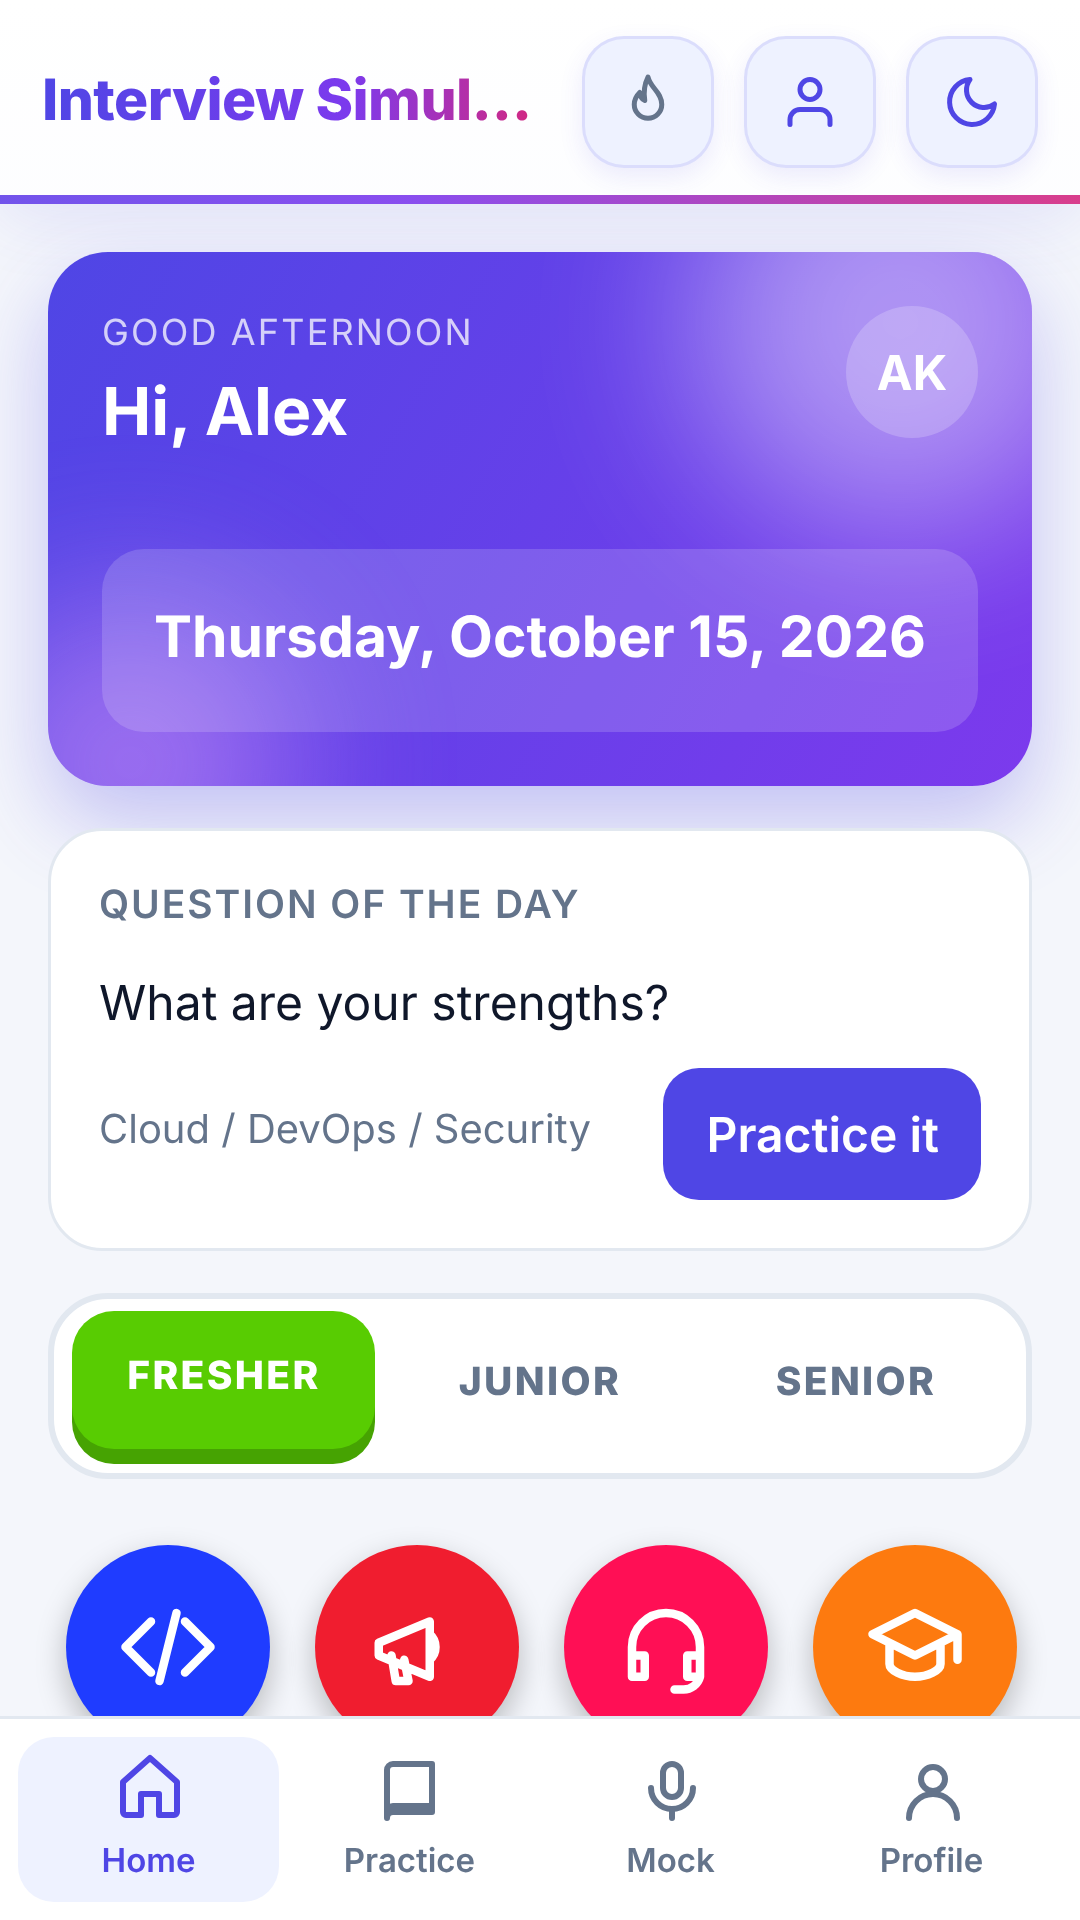
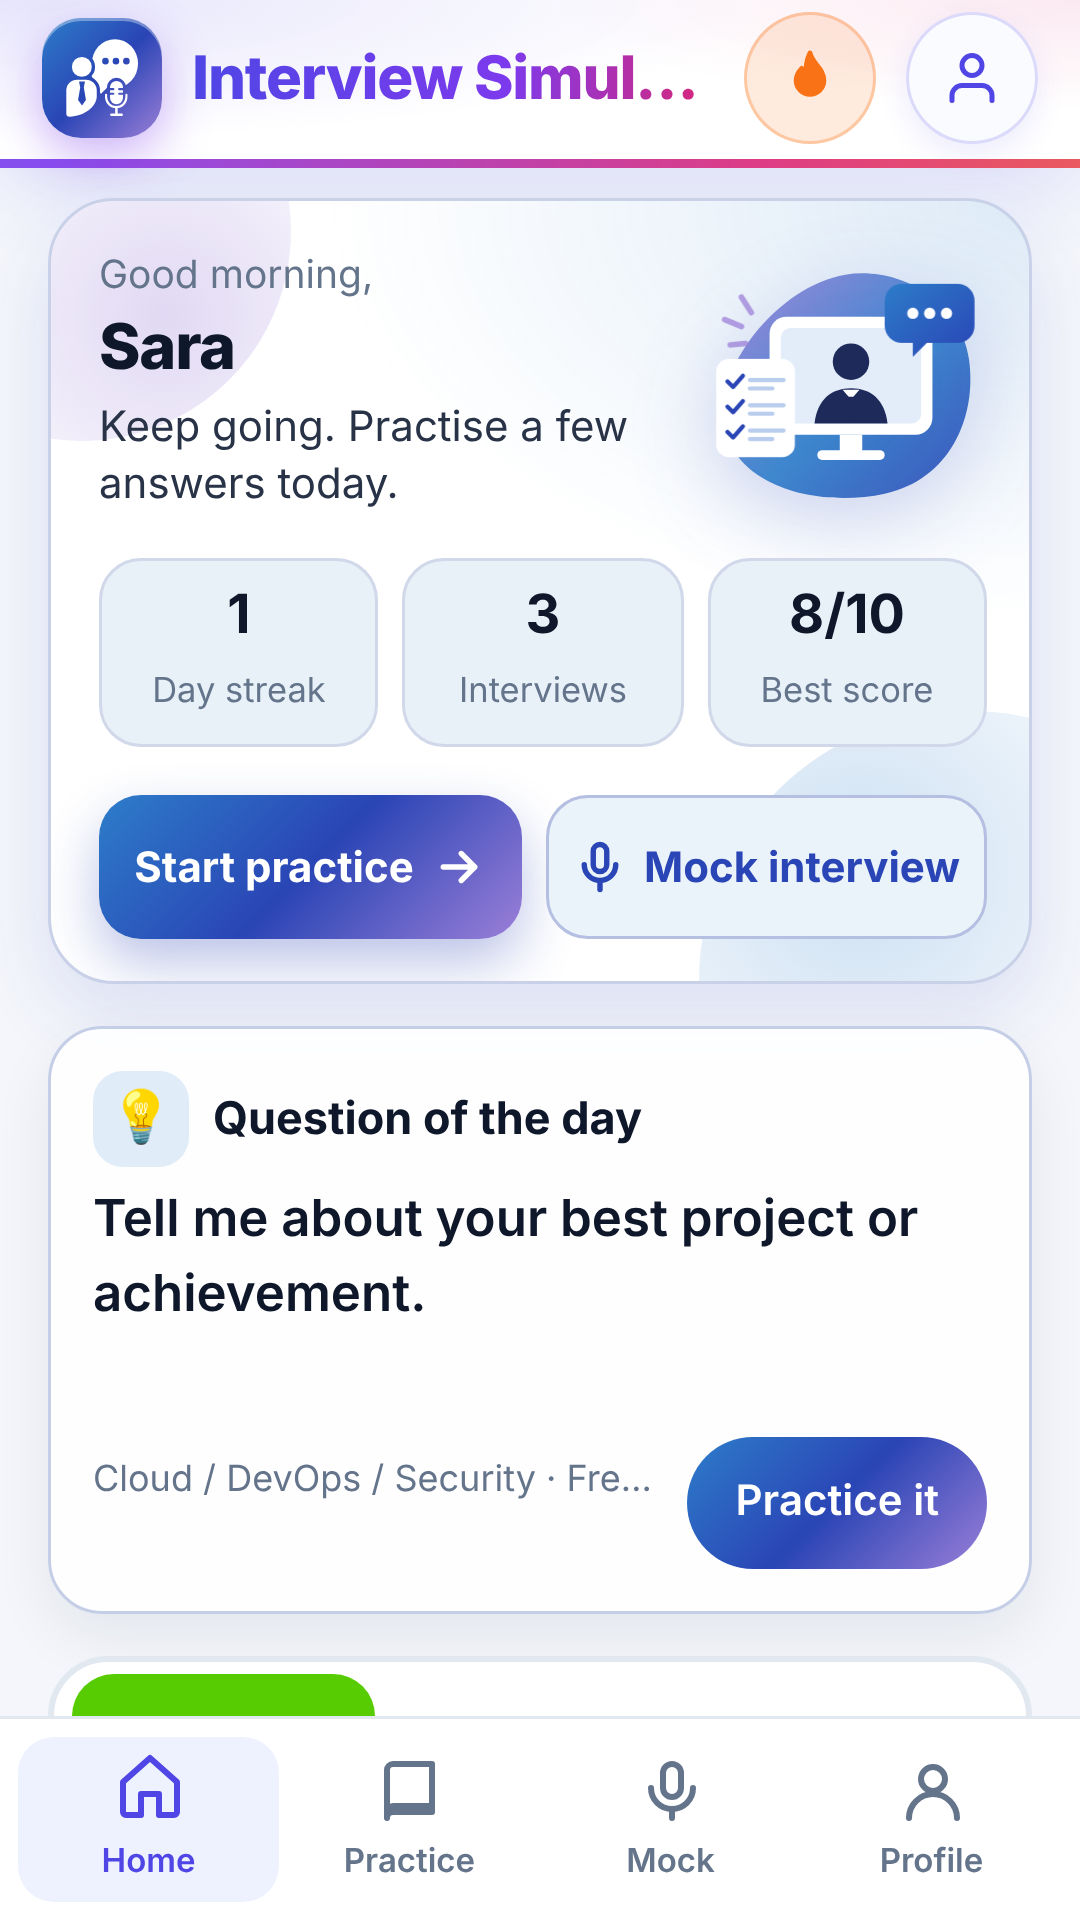
Store screenshots: six new 1080x1920 shots of the current app
The old drafts (Oct 15) showed an older UI. scripts/make-screenshots.mjs
(npm run store:screens) now makes all six from the release web build
with the fictional profile Sara Ahmed: Home, Practice, Mock setup, Mock
interview with an answer in progress, Results and Profile. The mic
button is shown as on a phone (voice is native only) and the Mock
answers are typed. STORE_LISTING.md updated.

Claude-Session: https://claude.ai/code/session_016iSuF2fjBtn9o4yHcnPZuT

diff --git a/STORE_LISTING.md b/STORE_LISTING.md
@@ -63,9 +63,9 @@ Please note: this app is a practice tool. It does not guarantee a job offer, and
 |---|---|---|---|
 | App icon | 512 x 512, 32-bit PNG (with alpha), max 1 MB | `assets/play/icon-512.png` (512x512 RGBA, 21 KB, full square, Play rounds the corners) | Ready |
 | Feature graphic | 1024 x 500, JPG or 24-bit PNG (no alpha), max 15 MB | `store-assets/feature-graphic.png` (1024x500 RGB, 44 KB) | Ready |
-| Phone screenshots | at least 2 (max 8), PNG or JPG, 16:9 or 9:16, each side 320 to 3840 px | `store-assets/screenshots/1-home.png` to `4-mock-interview.png` (1080x1920) | Drafts from the web build. Replace with real phone screenshots (the mic button only shows on a real phone), using a fictional profile such as "Sara Ahmed" |
+| Phone screenshots | at least 2 (max 8), PNG or JPG, 16:9 or 9:16, each side 320 to 3840 px | `store-assets/screenshots/1-home.png` to `6-profile.png` (1080x1920, 6 screens, fictional profile "Sara Ahmed") | Ready. Made from the release web build by `npm run store:screens` (see below). The mic button is drawn as on a phone; the Mock answer is typed |
 
-### Screenshot list (take these on a real phone)
+### Screenshot list (`npm run store:screens` makes all six)
 
 1. Home screen with Question of the day and interview type grid
 2. Practice screen with a question and sample answer
@@ -73,6 +73,8 @@ Please note: this app is a practice tool. It does not guarantee a job offer, and
 4. Mock interview screen with the mic button and an answer in progress
 5. Results screen with score and tips
 6. Profile screen (use a fictional profile such as "Sara Ahmed", not your real personal data)
+
+To remake them after a UI change: `npm run build`, then `npx vite preview --port 4173 &` and `npm run store:screens`. It uses the fictional profile "Sara Ahmed" (Lahore, BS Computer Science), never real data.
 
 Required sizes: 2 to 8 phone screenshots, PNG or JPG, 9:16 (for example 1080 x 1920), each side 320 to 3840 px. Feature graphic: exactly 1024 x 500, JPG or 24-bit PNG without alpha (`store-assets/feature-graphic.png`, made by `npm run store:assets`).
 
